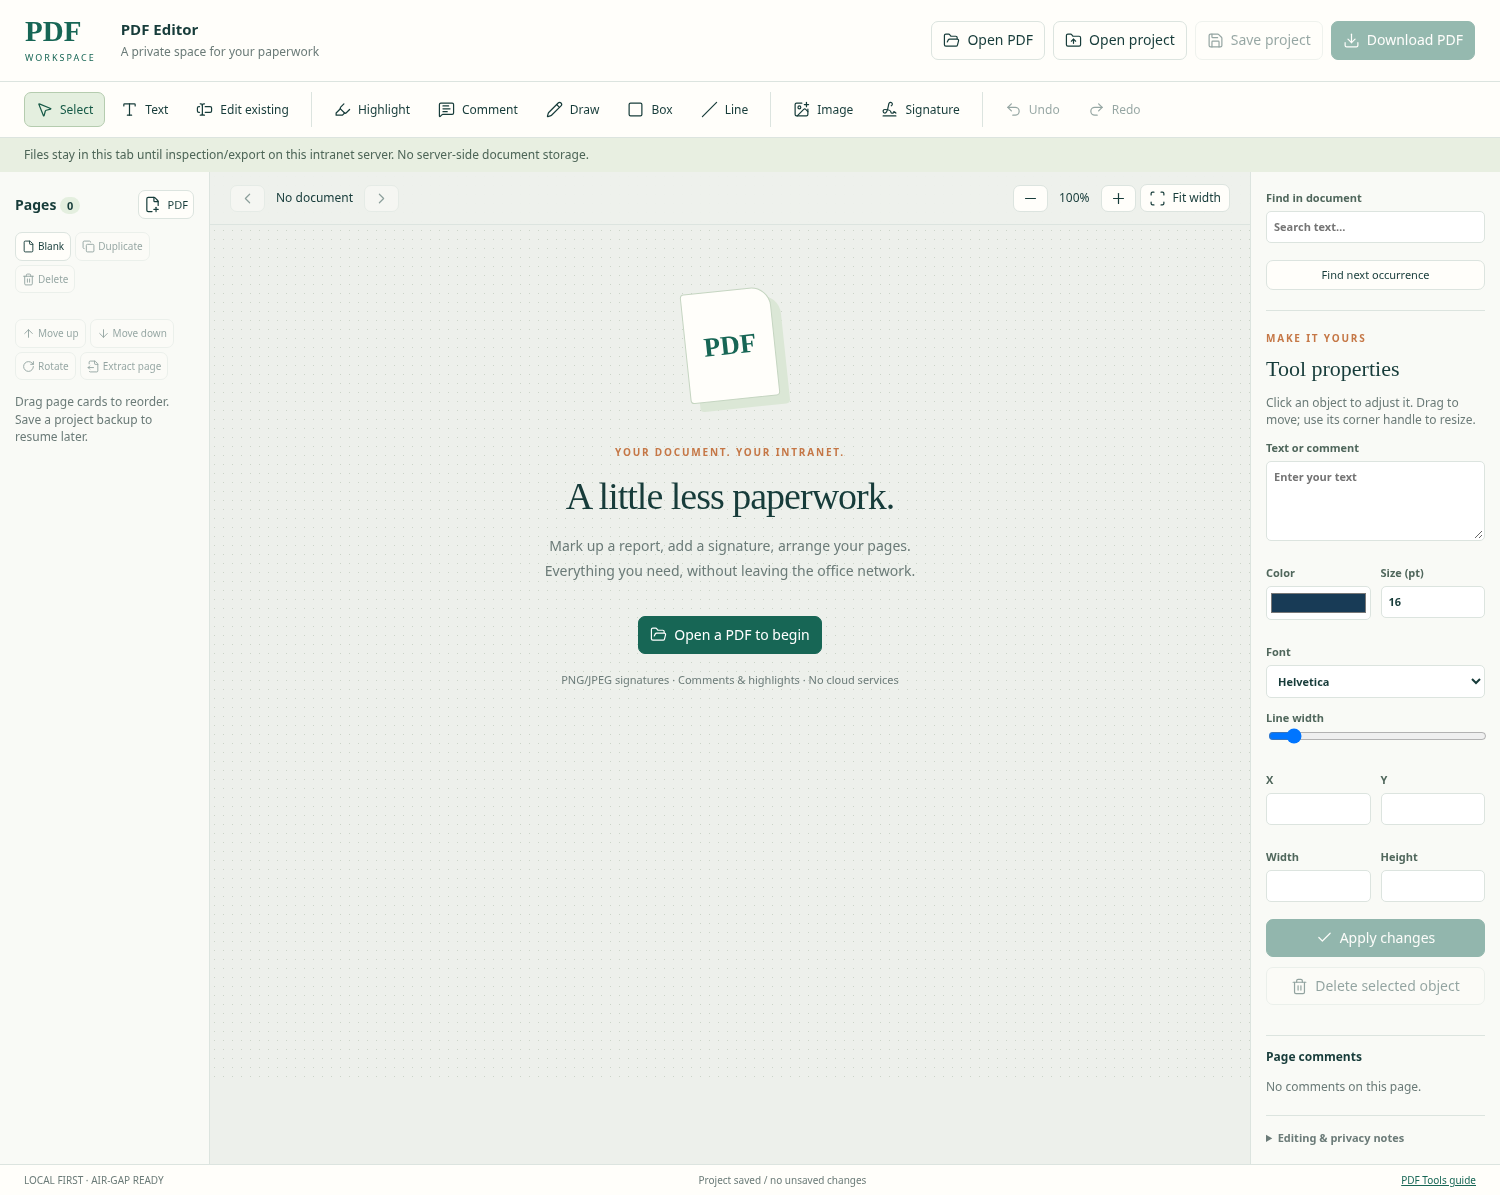
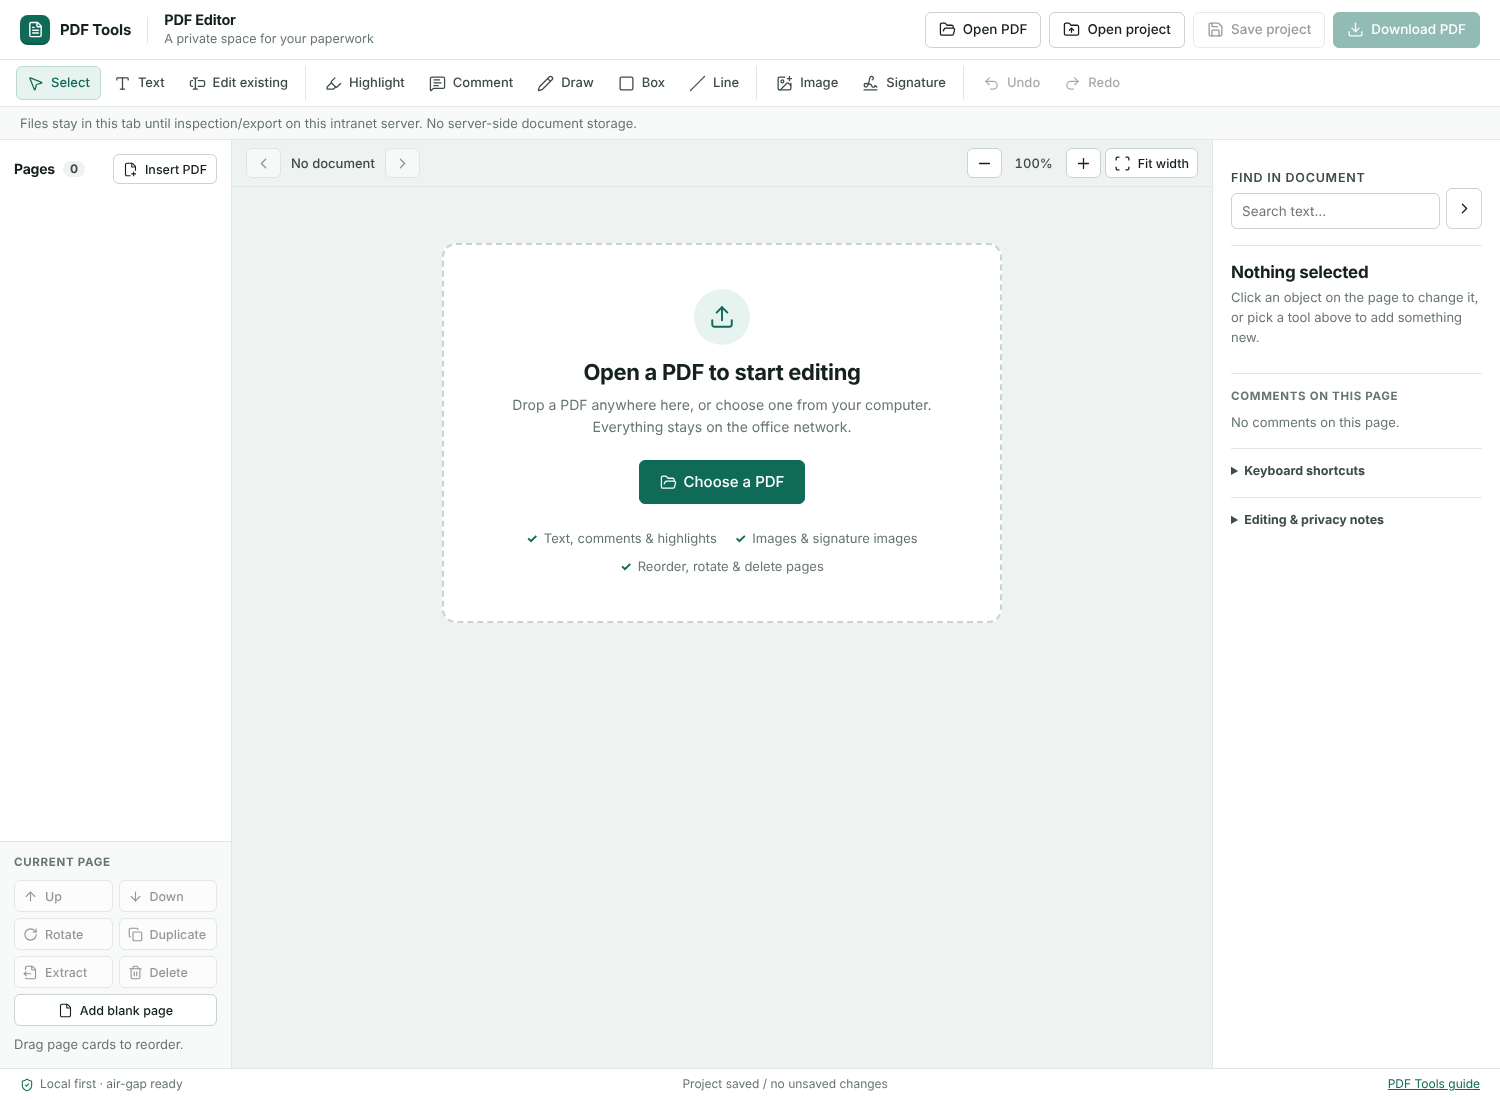
docs: refresh UI gallery, guide, changelog and progress ledger
Add home, merge, extract, help and phone screenshots to the gallery and
regenerate the editor shots. Document drop-to-open, page tools,
context-aware properties and keyboard shortcuts in the editor guide.

Claude-Session: https://claude.ai/code/session_011oMNbJYYeZJnH4xLrE2VXF

diff --git a/docs/EDITOR_PROGRESS.md b/docs/EDITOR_PROGRESS.md
@@ -20,6 +20,29 @@ force-push or overwrite concurrent work. Record blockers and partial work here.
 4. [complete] Expanded browser/geometry/export/recovery checks, offline wheel
    installation, screenshot gallery, user/admin guide and dependency notices.
    The final validation/documentation commit contains this ledger update.
+5. [complete] UI/usability review (2026-11-04), pushed to main in small commits:
+   - `e9a9fd6` fix: vendored PDF.js `build/` was ignored by `.gitignore`
+     (`build/` → `/build/`); restored pdfjs-dist 6.5.438 files, integrity verified.
+   - `83f5ce5` shared design system `static/theme.css`, sticky nav with active page,
+     `_macros.html` icon macro, new home page; Lucide sprite extended (54 icons)
+     from the same verified 1.68.0 tarball.
+   - `e8742f4` merge redesign (multi-file drop zone, rows with thumbnails, labelled
+     ranges, summary). Thumbnails previously never rendered (`pdf.destroy` is not
+     a PDF.js 6 API; use `loadingTask.destroy()`).
+   - `4be6c53` extract: thumbnail page picker synced with the range field, client
+     range validation mirroring `PDFPageParser`, PNG export rendered with PDF.js in
+     the browser and zipped (store-only writer in `extract.js`). The server's
+     `preview`/`as_images` API is unchanged but no longer used by the page.
+   - `7a2f347` editor: theme, full-height layout, context-aware properties panel
+     (`markFields`/`toolFields` in `editor.js`), shortcuts, drop-to-open,
+     background thumbnails, responsive layouts, `#paper[data-rendering]` flag; the
+     browser test waits on it (`settled()`) before measuring placed objects.
+   - `49848b9` help page and workflow SVG recoloured to the shared palette.
+   - Final commit: regenerated gallery (11 screenshots) and docs.
+   Checks: 54 pytest cases pass; `tests/browser/editor.cjs` passes repeatedly with
+   no external requests or JS errors; ad-hoc Playwright checks covered merge
+   download (5 pages from 3 + `1-2`), extract PDF/ZIP/range errors, and no
+   horizontal scrolling at 390px and 1024px.
 
 ## Current architecture
 
@@ -82,6 +105,10 @@ The current test service was started on port 8001; do not assume it survives a
 new task. Initial onboarding also started a service on port 8000; restart the
 appropriate development service to load updated code/templates. No service was
 published or deployed to the user's intranet by these development checks.
+
+Note: in this container Chromium is at `/opt/pw-browsers/chromium`
+(`CHROMIUM_PATH=/opt/pw-browsers/chromium`). Waitress caches templates; restart the
+service after template edits.
 
 All requested implementation milestones are complete. Next work should start
 from user UI feedback or a representative internal-document compatibility case.

diff --git a/docs/PDF_EDITOR.md b/docs/PDF_EDITOR.md
@@ -6,13 +6,15 @@ or browser CDN is required in production.
 
 ## Using the workspace
 
-1. **Open PDF** imports a document. Opening another PDF inserts its pages after
-   the current page. The left sidebar selects pages; drag cards or use Move up /
-   Move down to reorder. Blank, Duplicate, Delete, Rotate and Extract page operate
-   on the current page. Deletion can be undone. Rotation rotates the entire page,
-   including added marks.
+1. **Open PDF** imports a document; you can also drop PDF files onto the
+   workspace. Opening another PDF (or **Insert PDF**) inserts its pages after the
+   current page. The left sidebar selects pages; drag cards or use Up / Down to
+   reorder. The **Current page** tools (Rotate, Duplicate, Extract, Delete, Add
+   blank page) operate on the current page. Deletion can be undone. Rotation
+   rotates the entire page, including added marks.
 2. **Text** places a new text box. Edit its content, font, size, color and geometry
-   on the right, then Apply changes. Line breaks are supported; text must fit its
+   on the right, then Apply changes. The Properties panel only shows the fields
+   that apply to the selected object or active tool. Line breaks are supported; text must fit its
    box. Drag a selected object to move it, or drag its lower-right handle to resize.
 3. **Highlight** lets you select existing text or drag an area. **Comment** places
    a note, with its content listed in the right sidebar. Notes and highlights are
@@ -37,6 +39,11 @@ or browser CDN is required in production.
    the current page, including its edits. **Save project** downloads an editable
    `.pdfproject` containing source PDFs, images, notes, page order and text edits.
    **Open project** restores it, including in a fresh browser tab.
+9. **Keyboard shortcuts**: V Select, T Text, E Edit existing, H Highlight,
+   C Comment, D Draw, B Box, L Line, Del delete, Esc cancel, +/− zoom,
+   PgUp/PgDn change page, Ctrl/⌘ Z undo (Shift or Ctrl+Y to redo), Ctrl/⌘ S save
+   project, Ctrl/⌘ O open. The list is also under *Keyboard shortcuts* in the
+   editor's right panel.
 
 Undo/redo is bounded to 60 states. Keyboard shortcuts: Ctrl/Command Z, Shift Z for
 redo, Ctrl/Command S to download a project, V for selection, Escape to cancel image

diff --git a/docs/screenshots/README.md b/docs/screenshots/README.md
@@ -1,26 +1,47 @@
-# PDF editor UI review
+# PDF Tools UI review
 
 Actual Chromium screenshots using generated, fictional internal paperwork and
-signature artwork. The editor uses locally bundled Lucide SVG icons throughout.
-Regenerate with `node tests/browser/editor.cjs` against the running test service.
+signature artwork. Every page shares one design system (`static/theme.css`) and
+uses locally bundled Lucide SVG icons. Editor shots (01–05) are regenerated with
+`node tests/browser/editor.cjs` against the running test service; the other pages
+were captured from the same service with the same fixtures.
 
-## Empty workspace
+## Home
 
-![Empty workspace and editing toolbar](01-editor-empty.png)
+![Home page with the three tools and privacy summary](06-home.png)
 
-## Highlights, markup and comments
+## Merge PDFs
+
+![Merge workspace with two documents, thumbnails and page ranges](07-merge.png)
+
+## Extract pages
+
+![Extract workspace with a visual page picker and output choice](08-extract.png)
+
+## Help and guide
+
+![Help page with workflow diagram and privacy notes](09-help.png)
+
+## Editor: empty workspace
+
+![Empty editor with drop target and toolbar](01-editor-empty.png)
+
+## Editor: highlights, markup and comments
 
 ![Text highlight, page markup and comment properties](02-editor-annotations.png)
 
-## Signature-image placement
+## Editor: signature-image placement
 
 ![Signature image with placement and resizing controls](03-editor-signature.png)
 
-## Limited existing-text editing
+## Editor: limited existing-text editing
 
 ![Qualified existing text shown as green editing targets](04-editor-text-edit.png)
 
-## Page controls
+## Editor: page controls
 
-![Page duplication, rotation and navigation controls](05-editor-page-controls.png)
+![Restored project with a rotated, duplicated page](05-editor-page-controls.png)
 
+## Phone layouts
+
+![Home page on a phone](10-mobile-home.png) ![Editor on a phone](11-mobile-editor.png)

diff --git a/docs/THIRD_PARTY_EDITOR.md b/docs/THIRD_PARTY_EDITOR.md
@@ -7,7 +7,7 @@ retain their own terms; ship their notices with redistributed artifacts.
 |---|---|---|
 | PDF.js / pdfjs-dist 6.5.438 | Browser rendering, text layer and fonts | Apache-2.0; `app/static/vendor/pdfjs/LICENSE` |
 | PDF.js standard fonts / codecs | Local font and image support | Individual notices in `standard_fonts/` and `wasm/` |
-| Lucide static icons 1.68.0 | Editor controls | ISC / included upstream notices; `app/static/vendor/lucide/LICENSE` |
+| Lucide static icons 1.68.0 | Icons on all pages (subset sprite built from the verified tarball) | ISC / included upstream notices; `app/static/vendor/lucide/LICENSE` |
 | pypdfium2 5.14.0 / PDFium | Qualified native text-object editing | Permissive licenses and bundled third-party terms; retain wheel license inventory |
 | ReportLab 4.x | Text, image and vector composition | BSD-style terms in the installed distribution |
 | pypdf 6.x | Existing page operations and PDF annotations | BSD-3-Clause terms in the installed distribution |

diff --git a/CHANGELOG.md b/CHANGELOG.md
@@ -1,5 +1,18 @@
 # Changelog
 
+## Unreleased — 2026-11-04
+
+- One shared design system (`theme.css`) across the home, merge, extract, help and
+  editor pages, with a sticky navigation bar and bundled Lucide icons everywhere.
+- Merge: clickable multi-file drop zone, compact document rows with thumbnails,
+  labelled page ranges and a live document/page/size summary. Thumbnails now render.
+- Extract: visual page picker synced with the typed range, browser-side range
+  validation, and working PNG export (rendered locally and downloaded as a ZIP).
+- Editor: context-aware properties panel, single-key tool shortcuts, drop-to-open,
+  background thumbnails, grouped page tools, tablet and phone layouts.
+- Fixed: vendored PDF.js `build/` files were excluded by `.gitignore`, so fresh
+  checkouts could not render PDFs.
+
 ## 0.2.0 — 2026-08-23
 
 - Migrated from deprecated PyPDF2 imports to maintained `pypdf` 6.x.
